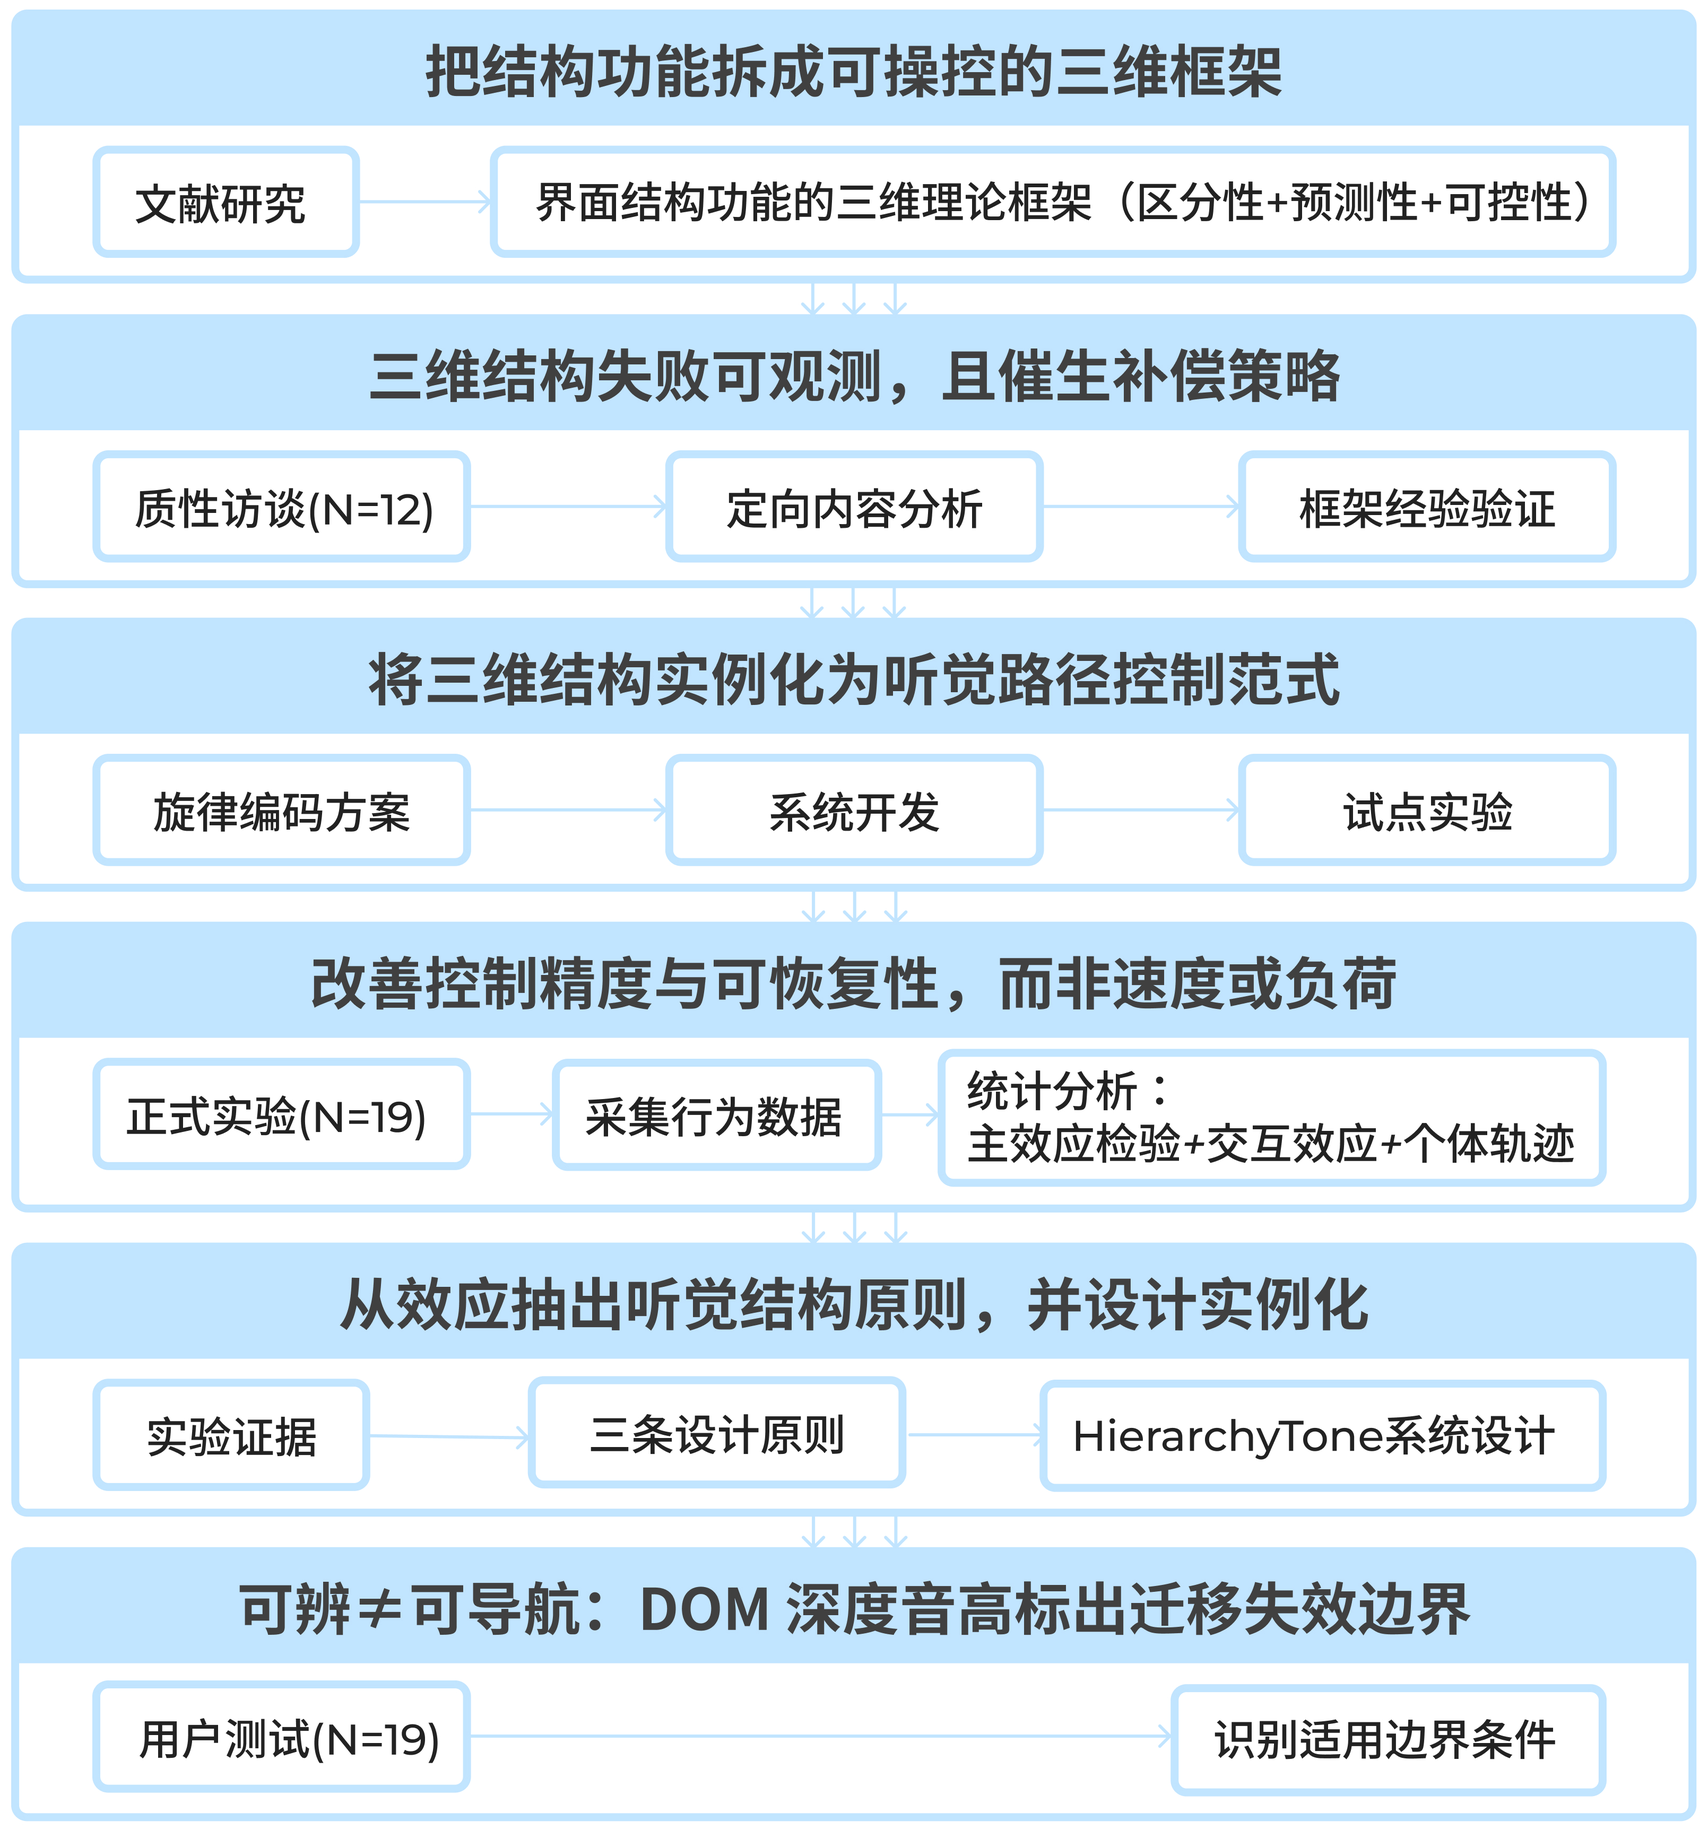
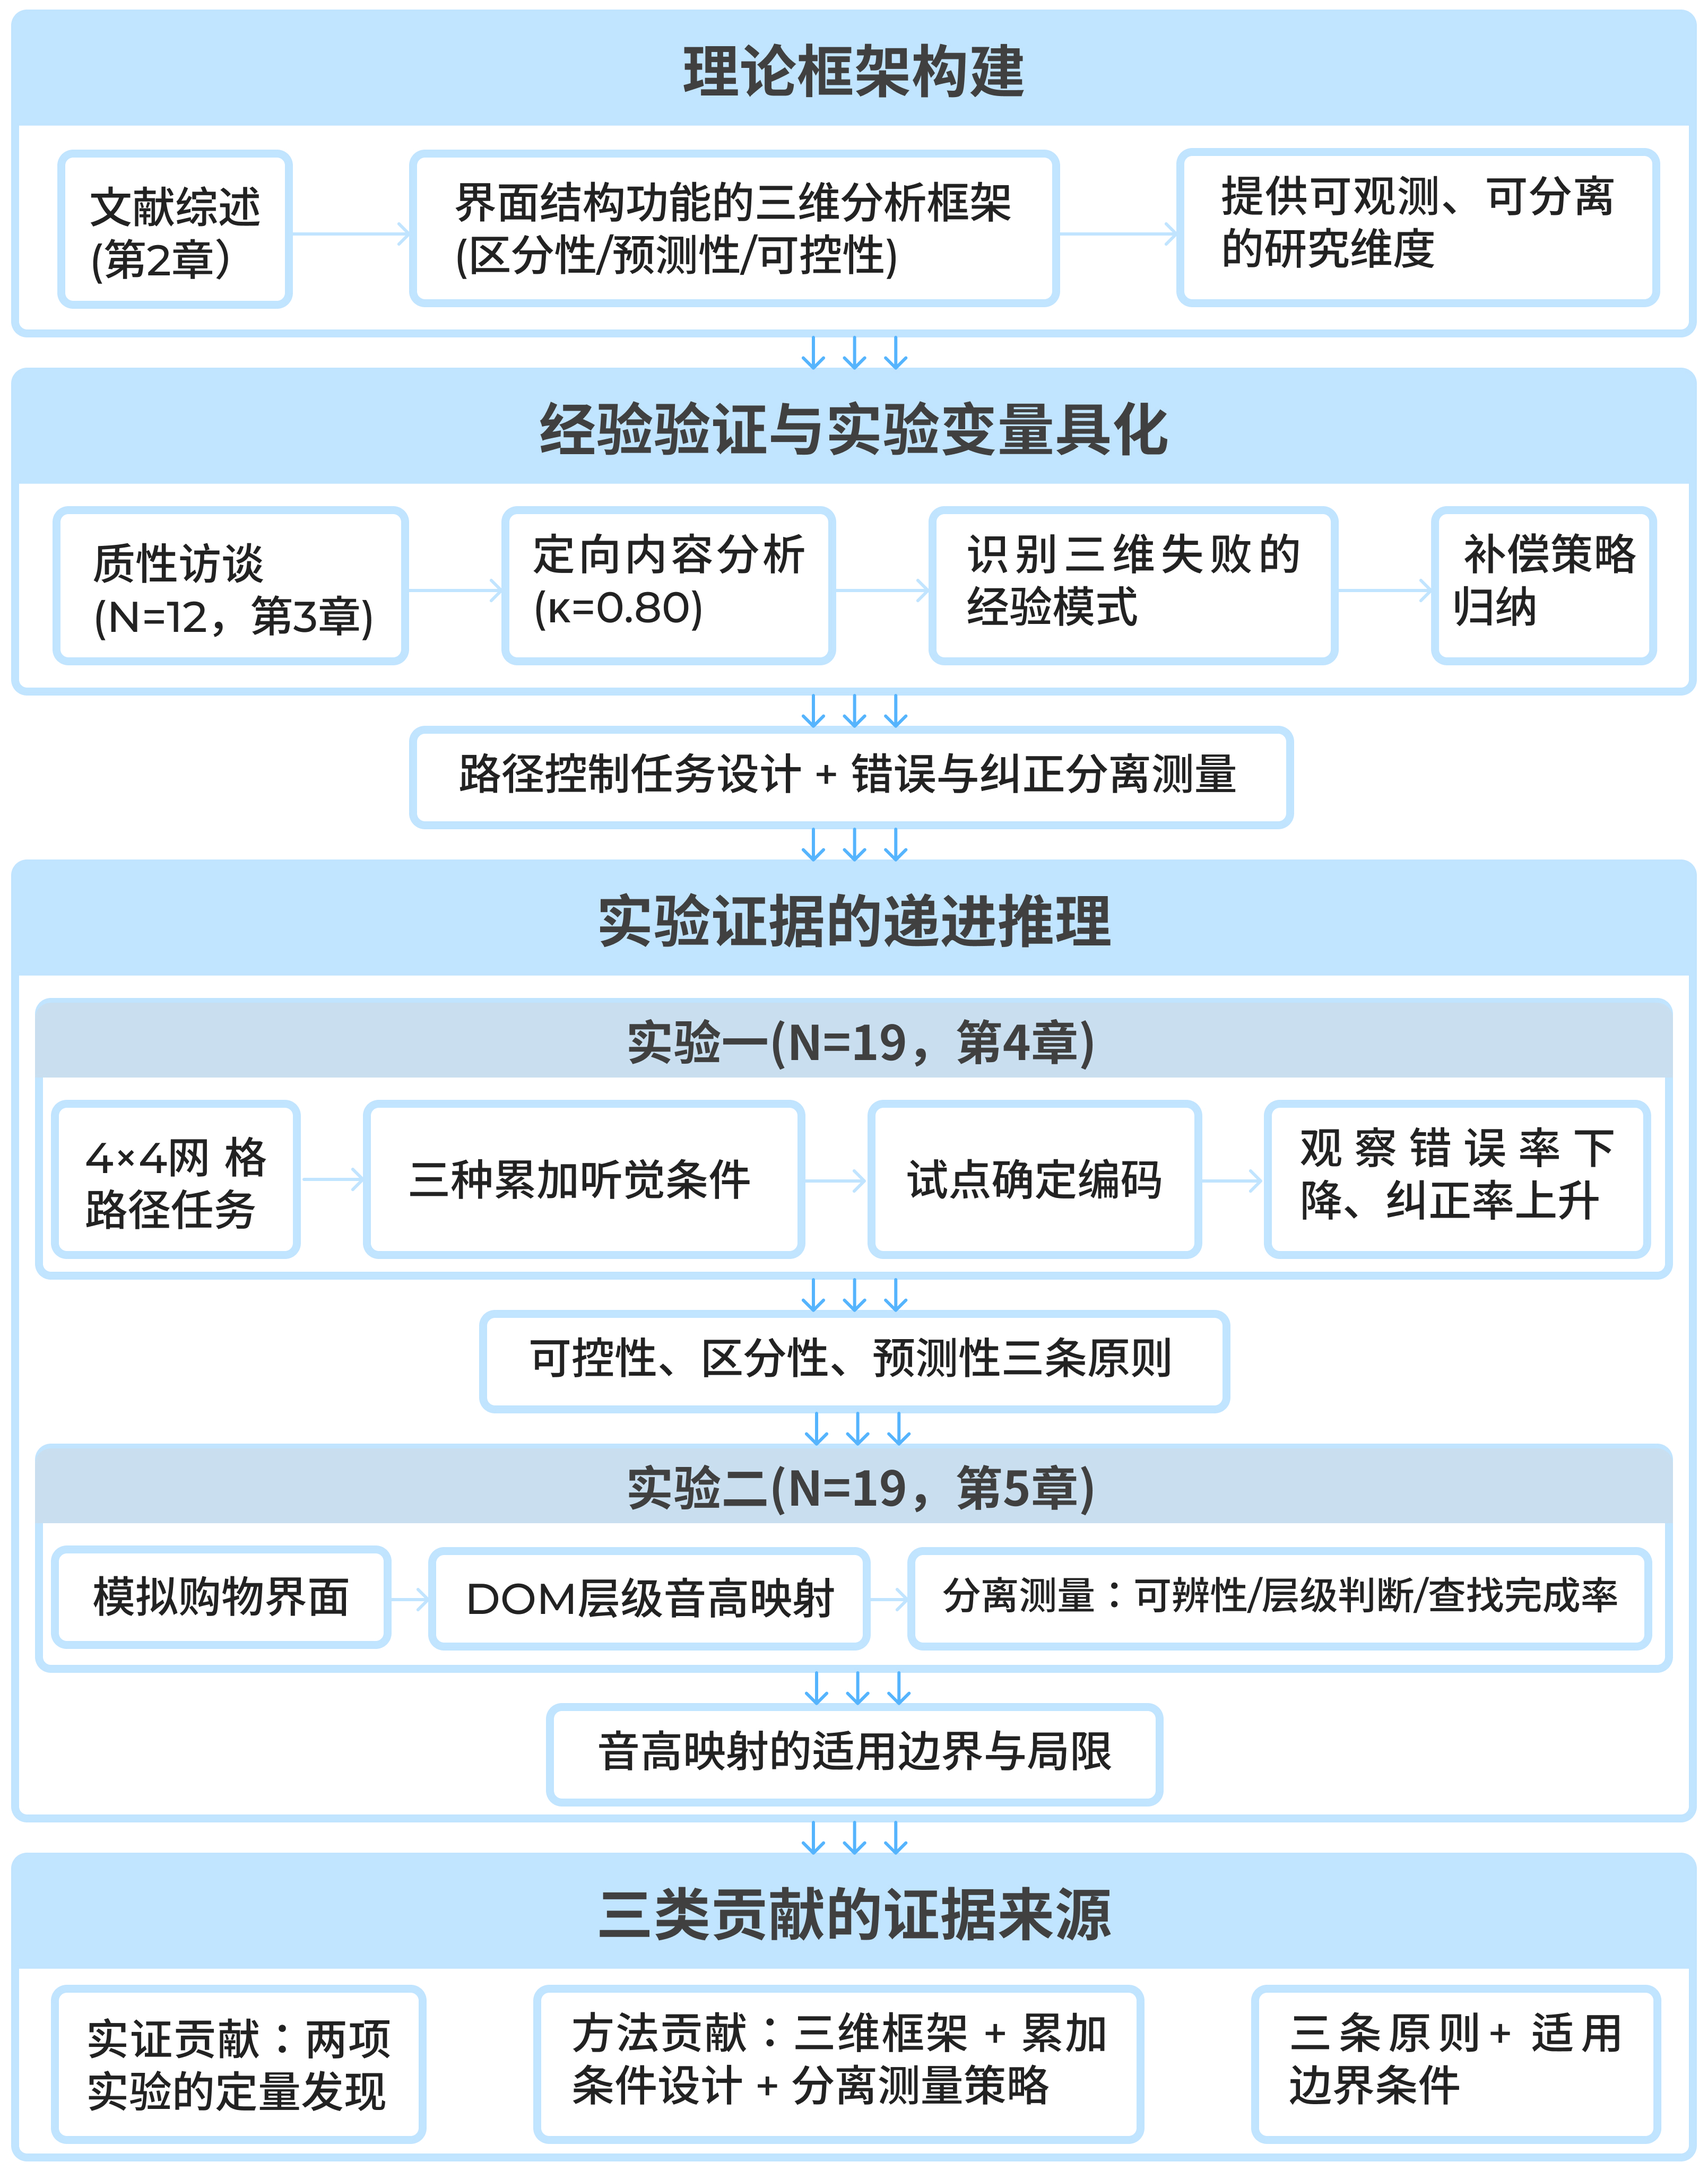
Replace Fig. 2 method flowchart and tighten homepage card copy.
Swap in the updated research-method diagram and keep the auditory-structure homepage blurb closer to other project lengths.

diff --git a/src/data/projects.ts b/src/data/projects.ts
@@ -96,14 +96,13 @@ export const categories: ProjectCategory[] = [
         title:
           "Auditory Structure Does Not Necessarily Correspond to Task Use: Error Recovery and Task-Relevant Mapping in Non-Visual Interaction",
         challenge:
-          "读屏把界面摊成线性语音流。用户听得见当前是什么，却难以判断自己在哪、下一步会到哪、走错后如何回来；若评价只问是否完成、花了多久，错误与恢复就会从记录里消失。",
+          "读屏能读出界面名称，但层级与邻接难以随语音进入；视障用户只能靠工作记忆重建结构，任务更慢、错误更多。",
         approach:
-          "用同一批 19 名视障高中生完成两项实验：研究一在规定路径上同时记录错误与条件恢复；研究二把可辨的音高映射到任务并不使用的 DOM 深度，分开测量「听得见」与「用得上」。",
+          "区分信息功能与结构功能，用音高呈现DOM关系，并操作化为区分性、预测性与可控性；两项实验分别记录错误与恢复，以及可辨、层级判断与查找表现。",
         time: "2026",
         role: "研究设计 / 实验执行与分析 · 谢玉婷",
         method: "非视觉交互 · 界面结构功能 · 听觉表征 · 视障青少年 · 可控性",
-        impact:
-          "在学校情境中给出两项观察：错误与恢复可以走出时间与负荷没有走出的模式；可辨本身并不保证对任务外区分的感知有用性。投稿 CHI 2027。",
+        impact: "第一作者论文投稿 CHI 2027。",
         images: [
           publicUrl("images/projects/auditory-structure/cover.jpg"),
           publicUrl("images/projects/auditory-structure/cover.jpg"),

diff --git a/src/data/projects/auditory-structure.ts b/src/data/projects/auditory-structure.ts
@@ -129,8 +129,8 @@ export const auditoryStructureDetail: ProjectDetail = {
           type: "figure",
           figures: [
             {
-              src: img("fig3-method-flow.jpg"),
-              alt: "从文献研究、质性访谈、受控实验到设计研究的推进关系。文献识别空白，访谈提供变量来源，Study 1检验RQ1-3，Study 2检验预测性前提并回答RQ4。",
+              src: `${img("fig3-method-flow.jpg")}?v=5.2`,
+              alt: "研究内容与方法流程：理论框架构建、经验验证与变量具化、实验一与实验二的递进推理，以及三类贡献的证据来源。",
               caption:
                 "Fig. 2  研究内容与方法流程图。",
             },
